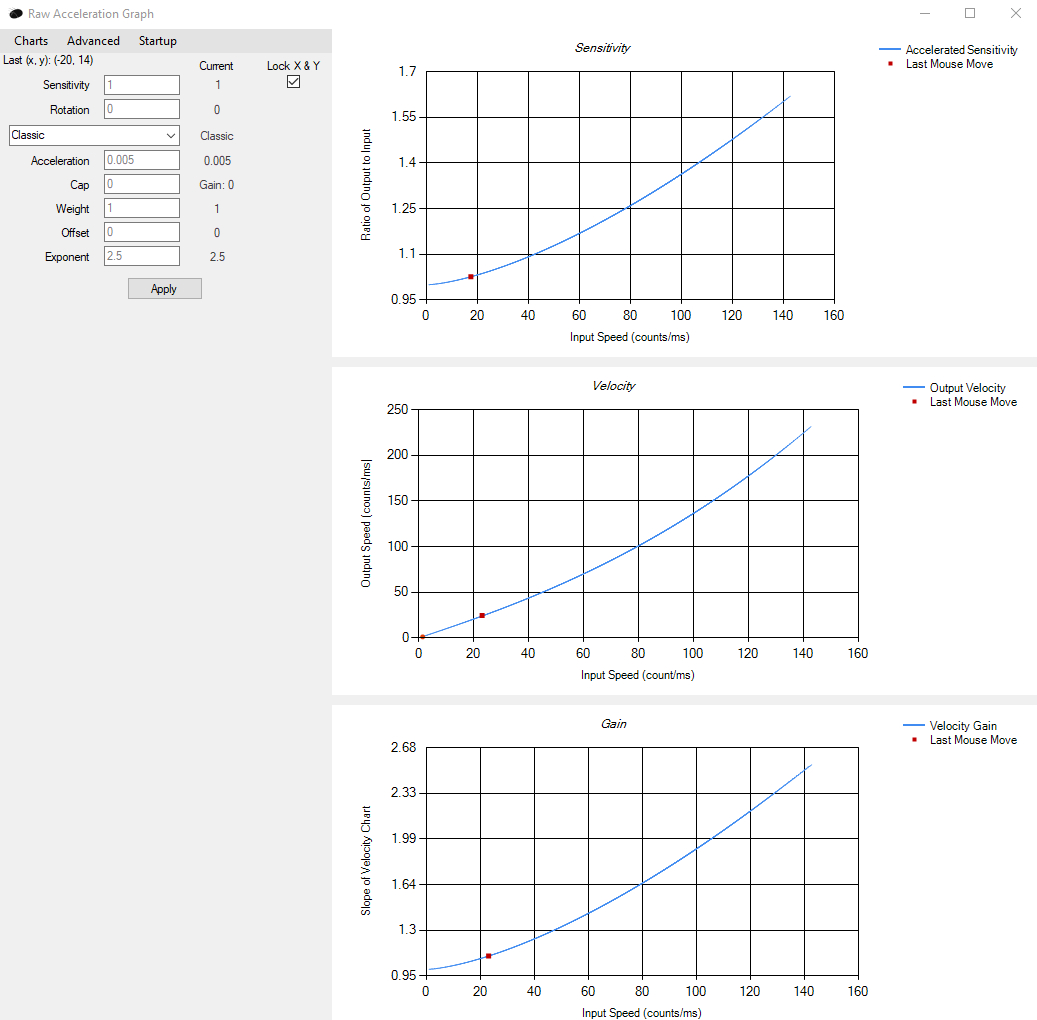
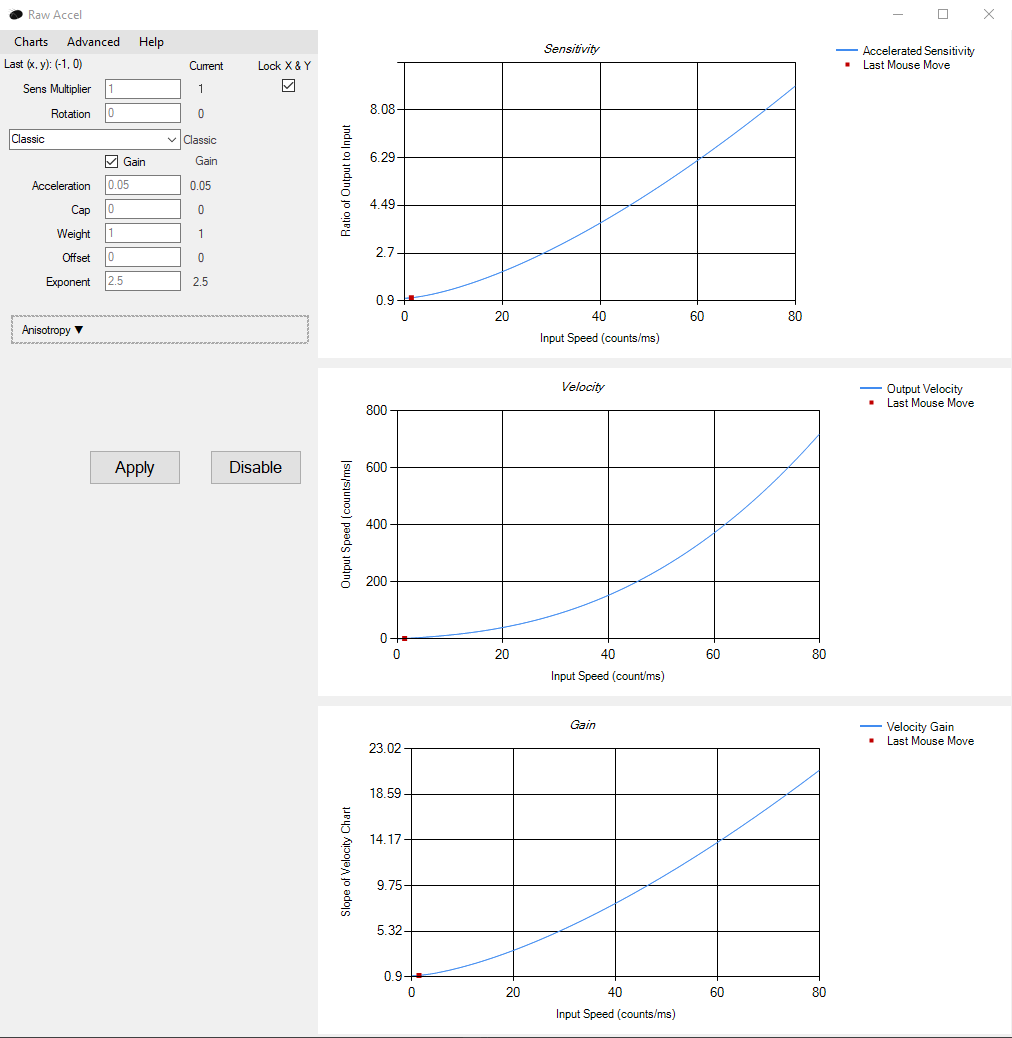
Handle power\exponent correctly in GUI

diff --git a/grapher/Models/Options/AccelTypeOptions.cs b/grapher/Models/Options/AccelTypeOptions.cs
@@ -245,7 +245,7 @@ namespace grapher
             Acceleration.SetActiveValue(AccelerationParameterFromArgs(ref args));
             Scale.SetActiveValue(args.scale);
             Limit.SetActiveValue(args.limit);
-            Exponent.SetActiveValue(args.exponent);
+            Exponent.SetActiveValue(ExponentParameterFromArgs(ref args));
             Midpoint.SetActiveValue(args.midpoint);
             LutPanel.SetActiveValues(args.tableData.points, args.tableData.length);
             LutApply.SetActiveValue(args.tableData.velocity);
@@ -307,7 +307,17 @@ namespace grapher
             if (Scale.Visible) args.scale = Scale.Field.Data;
             if (Cap.Visible) args.cap = Cap.Field.Data;
             if (Limit.Visible) args.limit = Limit.Field.Data;
-            if (Exponent.Visible) args.exponent = Exponent.Field.Data;
+            if (Exponent.Visible)
+            {
+                if (args.mode == AccelMode.classic)
+                {
+                    args.power = Exponent.Field.Data;
+                }
+                else
+                {
+                    args.exponent = Exponent.Field.Data;
+                }
+            }
             if (Offset.Visible) args.offset = Offset.Field.Data;
             if (Midpoint.Visible) args.midpoint = Midpoint.Field.Data;
             if (Weight.Visible) args.weight = Weight.Field.Data;
@@ -387,7 +397,7 @@ namespace grapher
 
             switch (args.mode)
             {
-                case AccelMode.classic:  return (args.exponent == 2) ? Linear : Classic;
+                case AccelMode.classic:  return (args.power == 2) ? Linear : Classic;
                 case AccelMode.jump:     return Jump;
                 case AccelMode.natural:  return Natural;
                 case AccelMode.motivity: return Motivity;
@@ -410,6 +420,18 @@ namespace grapher
             else
             {
                 return args.accelClassic;
+            }
+        }
+
+        private double ExponentParameterFromArgs(ref AccelArgs args)
+        {
+            if (args.mode == AccelMode.classic)
+            {
+                return args.power;
+            }
+            else
+            {
+                return args.exponent;
             }
         }
 

diff --git a/doc/Guide.md b/doc/Guide.md
@@ -106,7 +106,7 @@ The Raw Accel GUI reads the output of the raw input stream, and thus the output 
 This option does not scale your acceleration curve in any way. Rather, DPI scales the set of points used to graph your curve, and shows you a window of input speed relevant for your chosen DPI. The poll rate is used as a safeguard for the Last Mouse Move points and therefore should be set for accuracy in that measurement.
 
 ## Acceleration Styles
-The examples of various types below show some typical settings, without a cap or offset, for a mouse at 1200 DPI and 1000 hz.
+The examples of various types below show some typical settings, without a cap or offset, for a mouse at 1600 DPI and 1000 hz.
 
 ### Linear
 This is simplest style used by most; it is simply a line rising at a given rate. This is a good choice for new users.
